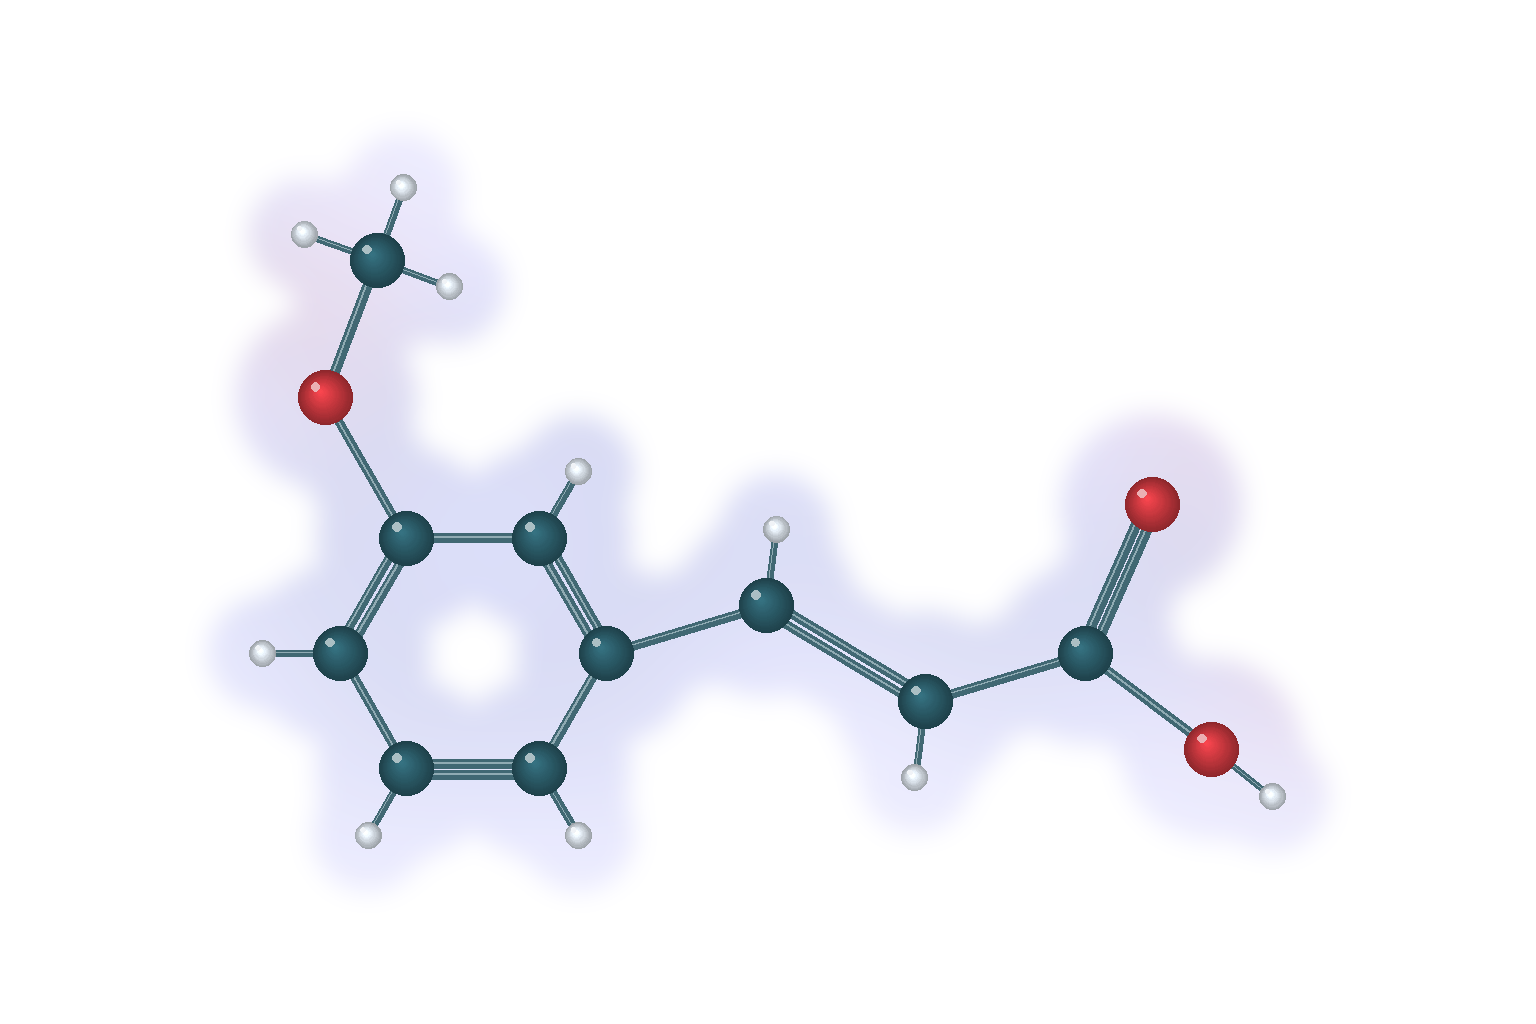
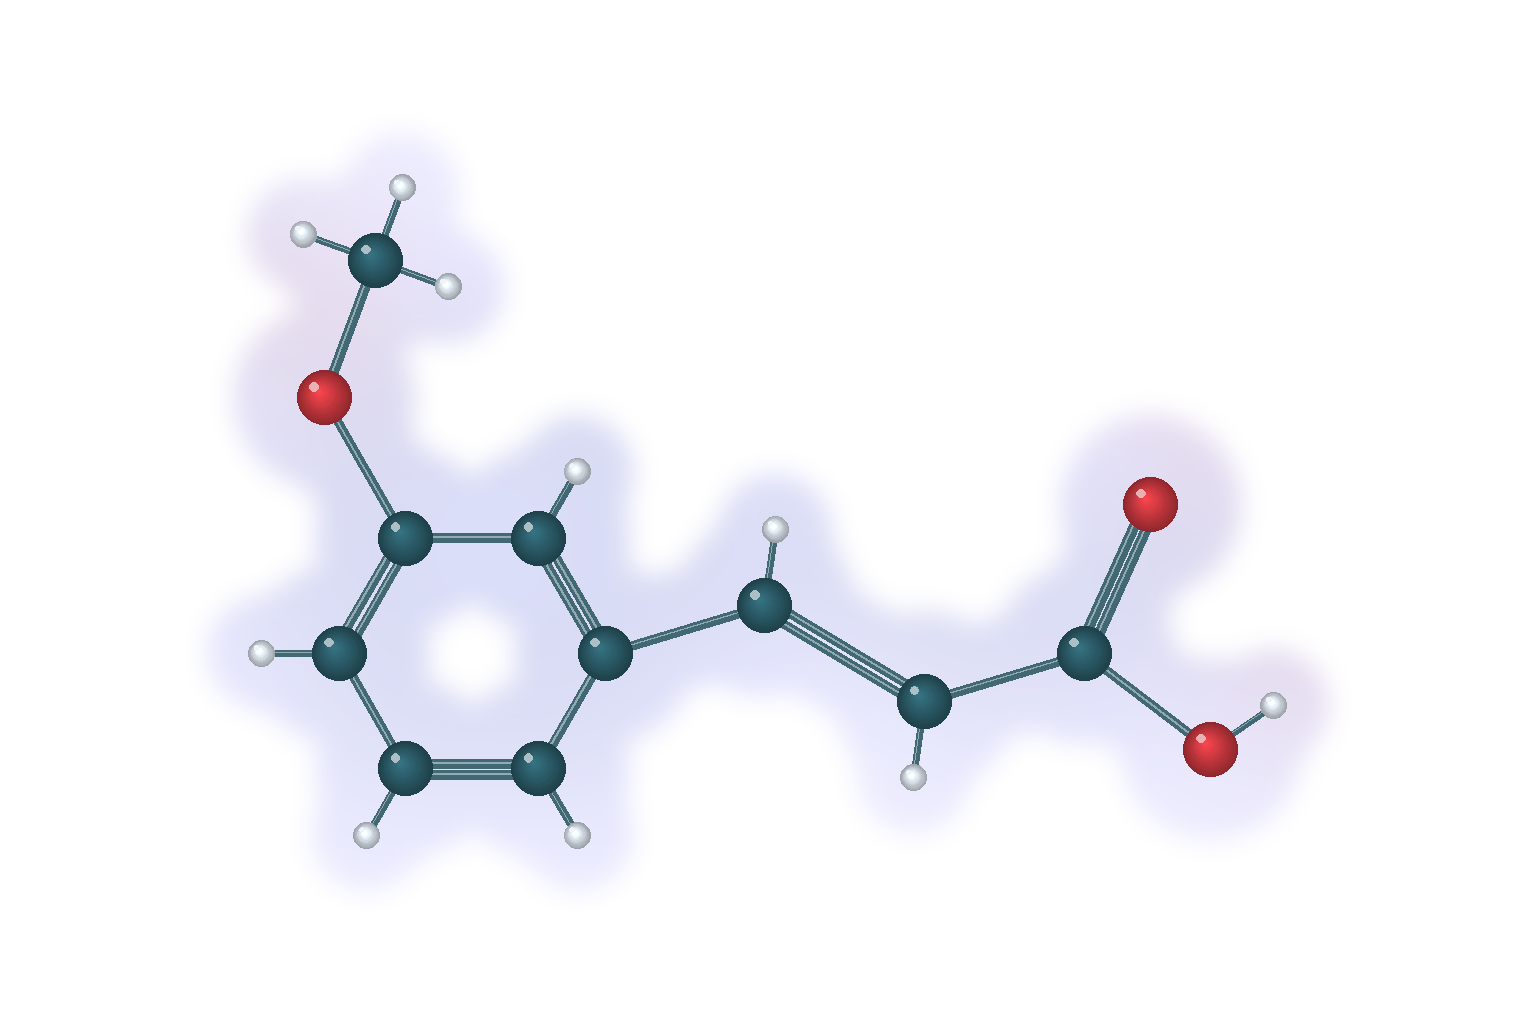
Fix bent carboxyl hydroxyl geometry in teaching models

diff --git a/sunscreen_classroom/scripts/correct_cloud_models.py b/sunscreen_classroom/scripts/correct_cloud_models.py
@@ -64,9 +64,16 @@ def graph(item):
         neighbors=[b if a==i else a for a,b,_ in bonds if a==i or b==i]
         angles=[math.atan2(atoms[n][2]-y,atoms[n][1]-x) for n in neighbors]
         for _ in range(count):
-            choices=[j*math.pi/90 for j in range(180)]
-            def distance(angle):return min(abs(math.atan2(math.sin(angle-a),math.cos(angle-a))) for a in angles)
-            angle=max(choices,key=distance);angles.append(angle)
+            if i==single and item['ester']=='acid':
+                # A hydroxyl oxygen has bent C-O-H geometry, not a linear
+                # terminal hydrogen. Use a fixed teaching layout, not an
+                # asserted optimized molecular angle; turn H outward.
+                angle=angles[0]+math.radians(108)
+            else:
+                choices=[j*math.pi/90 for j in range(180)]
+                def distance(angle):return min(abs(math.atan2(math.sin(angle-a),math.cos(angle-a))) for a in angles)
+                angle=max(choices,key=distance)
+            angles.append(angle)
             node=atom('H',x+.58*math.cos(angle),y+.58*math.sin(angle));bond(i,node)
     return atoms,bonds,{'ortho':1,'meta':2,'para':3,'ester':carbonyl}
 
@@ -124,22 +131,27 @@ def render(item):
         hr=radius*.16
         draw.ellipse((x-radius*.37-hr,y-radius*.41-hr,x-radius*.37+hr,y-radius*.41+hr),fill=tuple(int(v*.4+255*.6) for v in colors[sym]))
     canvas.save(dest,optimize=True)
+    final_sha256=hashlib.sha256(dest.read_bytes()).hexdigest()
+    item['cloud']=f'/molecules/{dest.name}?v={final_sha256[:12]}'
     item['hotspots']={name:[round(points[index][0]/W*100,3),round(points[index][1]/H*100,3)] for name,index in anchors.items()}
     item['image_status']='ready'
     item['image_kind']='AI云层纹理＋化学连接校正球棍模型；定性教学示意，非量子化学计算'
     return {'id':item['id'],'model_requested':'gpt-image-2','source_size':list(source.size),'final_size':[W,H],
             **({'texture_source_id':texture_source,'generation':'Existing AI texture reused; no new image API request.'} if texture_source else {}),
             'original_sha256':hashlib.sha256(original.read_bytes()).hexdigest(),
-            'final_sha256':hashlib.sha256(dest.read_bytes()).hexdigest(),
+            'final_sha256':final_sha256,
+            **({'hydroxyl_geometry':'Bent C-O-H at oxygen; fixed 108-degree teaching layout, not an optimized molecular geometry.'} if item['ester']=='acid' else {}),
             'postprocessing':'AI raster colors blurred into cloud texture; molecule connectivity and hydrogen counts corrected from validated molecular graph; qualitative illustration only.'}
 
 def main():
     import argparse
     parser=argparse.ArgumentParser()
-    parser.add_argument('--only-methyl-esters',action='store_true')
+    selection=parser.add_mutually_exclusive_group()
+    selection.add_argument('--only-methyl-esters',action='store_true')
+    selection.add_argument('--only-acids',action='store_true')
     args=parser.parse_args()
-    entries=[item for item in CATALOG if not args.only_methyl_esters or item['ester']=='methyl']
-    existing=json.loads((OUT/'asset-provenance.json').read_text(encoding='utf-8')) if args.only_methyl_esters else []
+    entries=[item for item in CATALOG if (not args.only_methyl_esters or item['ester']=='methyl') and (not args.only_acids or item['ester']=='acid')]
+    existing=json.loads((OUT/'asset-provenance.json').read_text(encoding='utf-8')) if args.only_methyl_esters or args.only_acids else []
     report={item['id']:item for item in existing}
     for item in entries:
         report[item['id']]=render(item)

diff --git a/sunscreen_classroom/scripts/make_catalog.py b/sunscreen_classroom/scripts/make_catalog.py
@@ -44,7 +44,7 @@ def main():
             old=previous.get(ident,{})
             catalog.append({'id':ident,'name':name,'ring':key,'position':pos,'ester':ester,
                 'smiles':Chem.MolToSmiles(mol,isomericSmiles=True),'formula':rdMolDescriptors.CalcMolFormula(mol),
-                'structure':f'/molecules/{ident}.svg','cloud':f'/molecules/{ident}.png',
+                'structure':f'/molecules/{ident}.svg','cloud':old.get('cloud',f'/molecules/{ident}.png'),
                 'hotspots':old.get('hotspots',{'ortho':[42,39],'meta':[30,34],'para':[24,50],'ester':[79,48]}),
                 'image_status':'ready' if (OUT/f'{ident}.png').exists() else 'pending',
                 'image_kind':old.get('image_kind','AI教学示意，非量子化学计算')})
